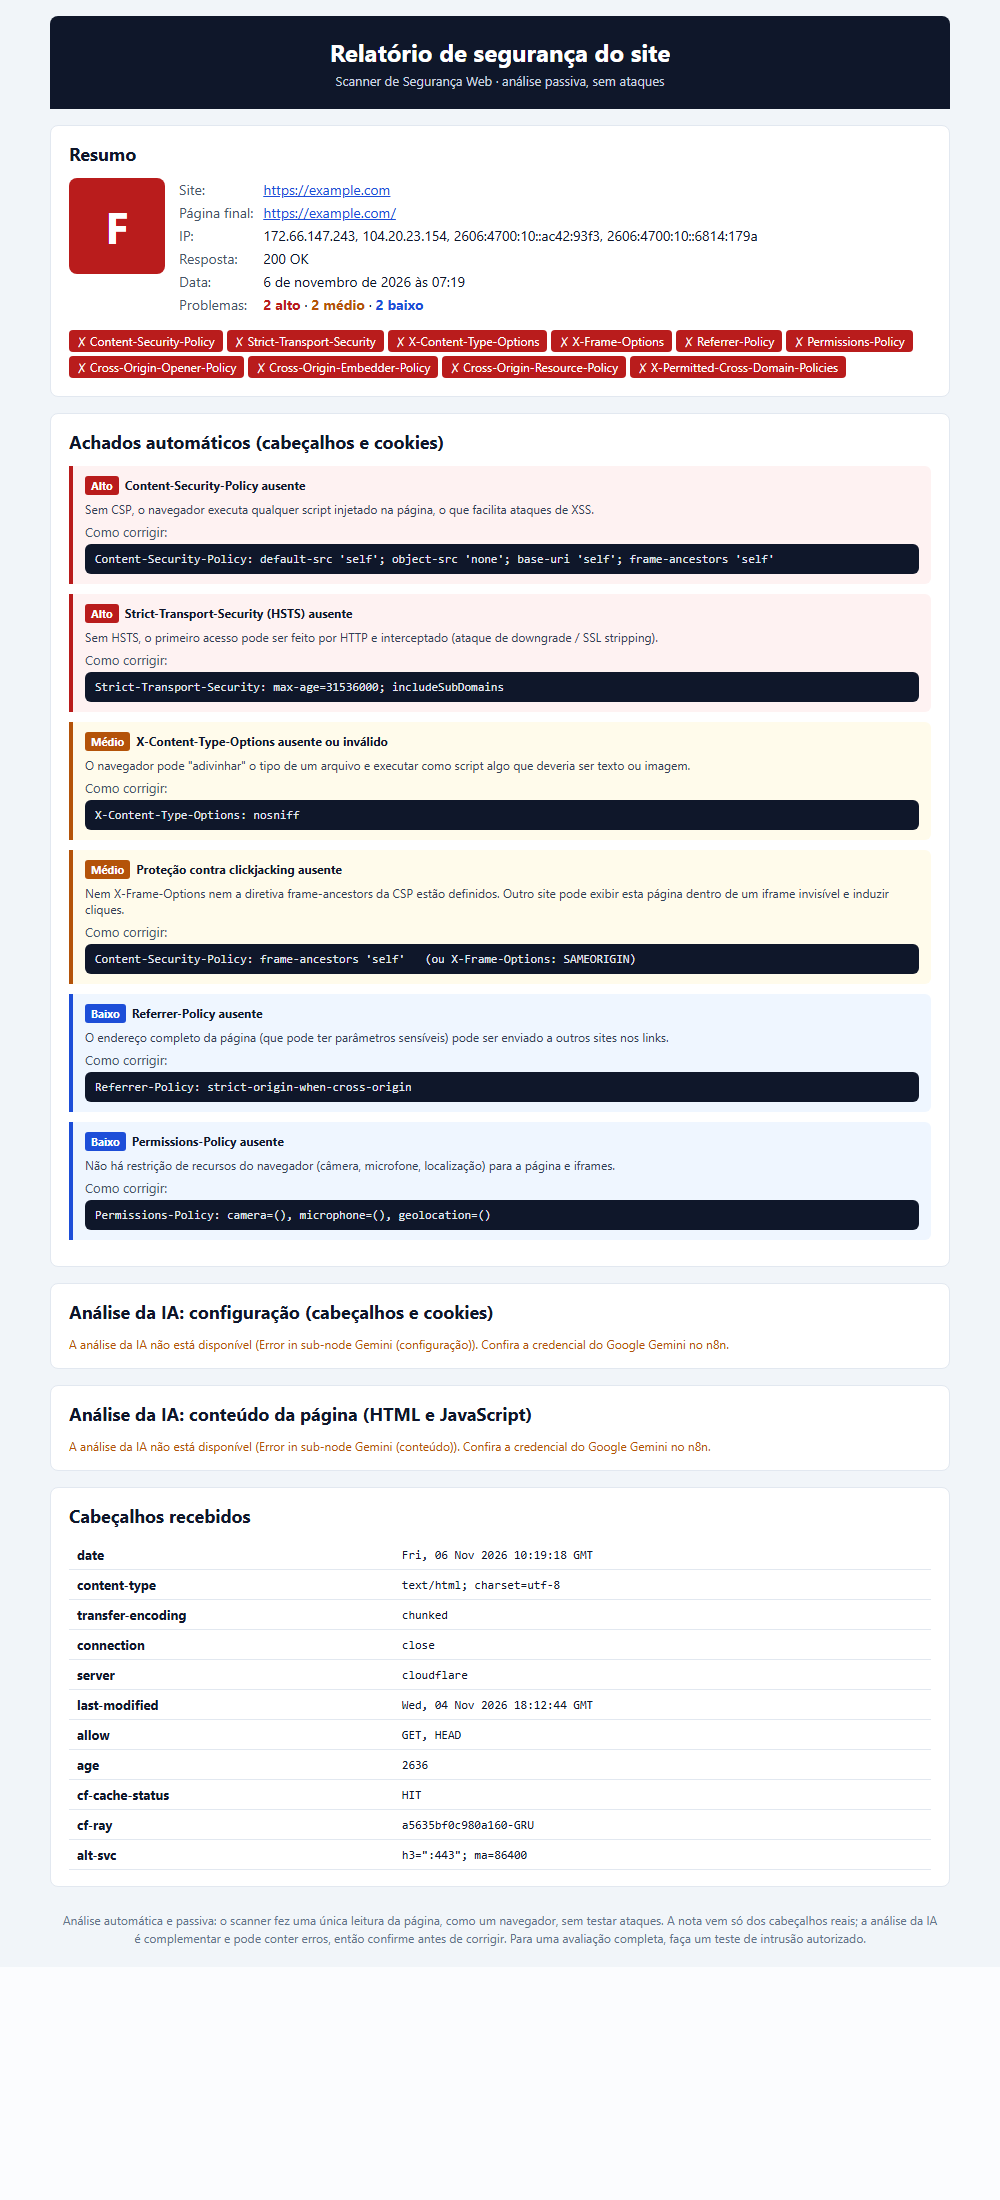
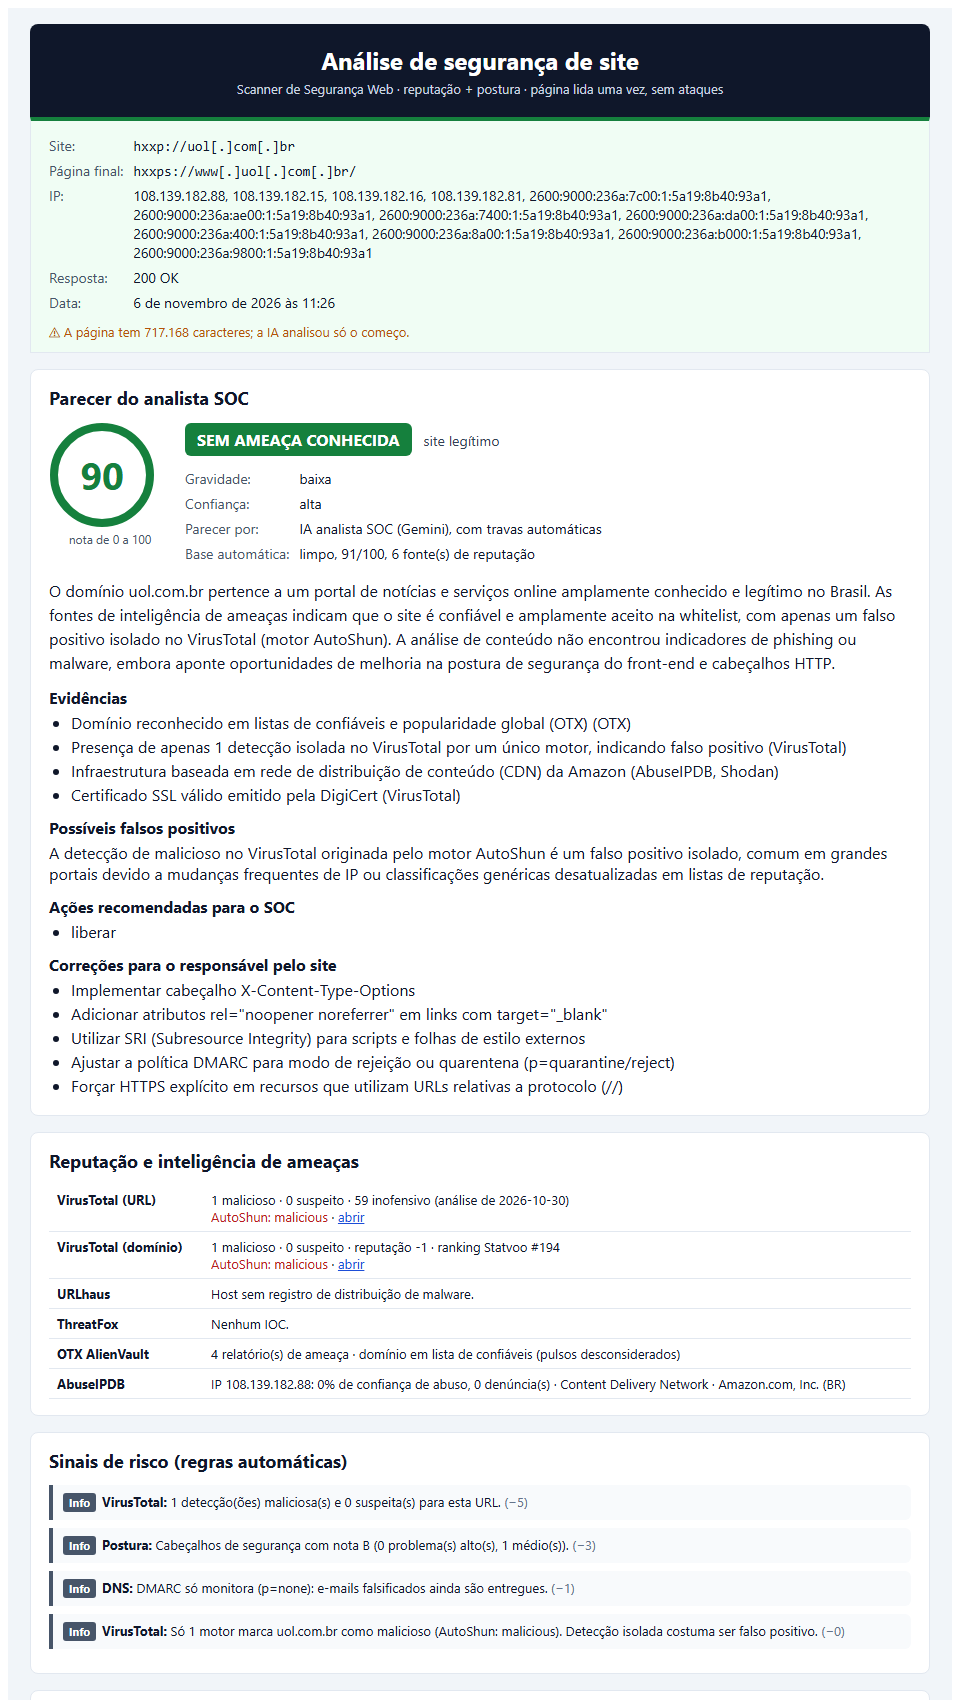
README: print novo do relatório e roteiro das próximas melhorias

diff --git a/README.md b/README.md
@@ -9,7 +9,9 @@ Fluxo do **n8n** que dá a um analista de SOC o **parecer de segurança de um si
 
 O parecer é escrito por uma **IA analista SOC** (Google Gemini), mas passa por **travas automáticas**. Evidência forte nunca vira "limpo", e se a IA falhar o relatório sai com o parecer calculado pelas regras.
 
-![Exemplo de relatório](docs/exemplo-relatorio.png)
+![Exemplo de relatório: parecer do analista SOC para uol.com.br, com o falso positivo isolado do VirusTotal explicado](docs/exemplo-relatorio.png)
+
+*Exemplo real: portal legítimo com 1 detecção isolada no VirusTotal. O parecer explica que é falso positivo e recomenda liberar.*
 
 ## Dois modos
 
@@ -247,6 +249,18 @@ scanner-seguranca-web/
 ├── workflow/scanner-seguranca-web.json   (gerado; é este que se importa no n8n)
 └── docs/exemplo-relatorio.png
 ```
+
+## Roteiro (próximas melhorias)
+
+Ideias já aprovadas, a fazer uma de cada vez:
+
+| Melhoria | Para que serve | Como |
+|---|---|---|
+| **Cache das consultas** | Não gastar cota repetindo o mesmo site (o VirusTotal grátis permite 500 consultas por dia) e responder mais rápido | Guardar o resultado de cada fonte no Redis por 24 h (1 h se a fonte falhou), com chave pelo hash do host/URL, como já faz a reputação de IP do laboratório NG-SOC |
+| **Chamado e aviso automáticos** | Veredito "malicioso" não depender de alguém ler o relatório | Abrir chamado no GLPI com o "texto para o chamado" e os IOCs, e avisar no Telegram do SOC. O bloqueio continua sempre com aprovação humana |
+| **urlscan.io** | Ver a página como um navegador de verdade: print, domínios contatados, scripts carregados, formulários | Envio com visibilidade **unlisted**. No plano grátis, a análise pode ficar visível para pesquisadores do urlscan, então será opcional e só no modo completo |
+
+Outras ideias: consultar também o domínio original quando a cadeia de redirecionamentos passa por outro domínio (encurtadores), e cadastrar os IOCs maliciosos numa lista do Wazuh (CDB), para alertar se alguém da rede acessar.
 
 ## Uso ético
 
